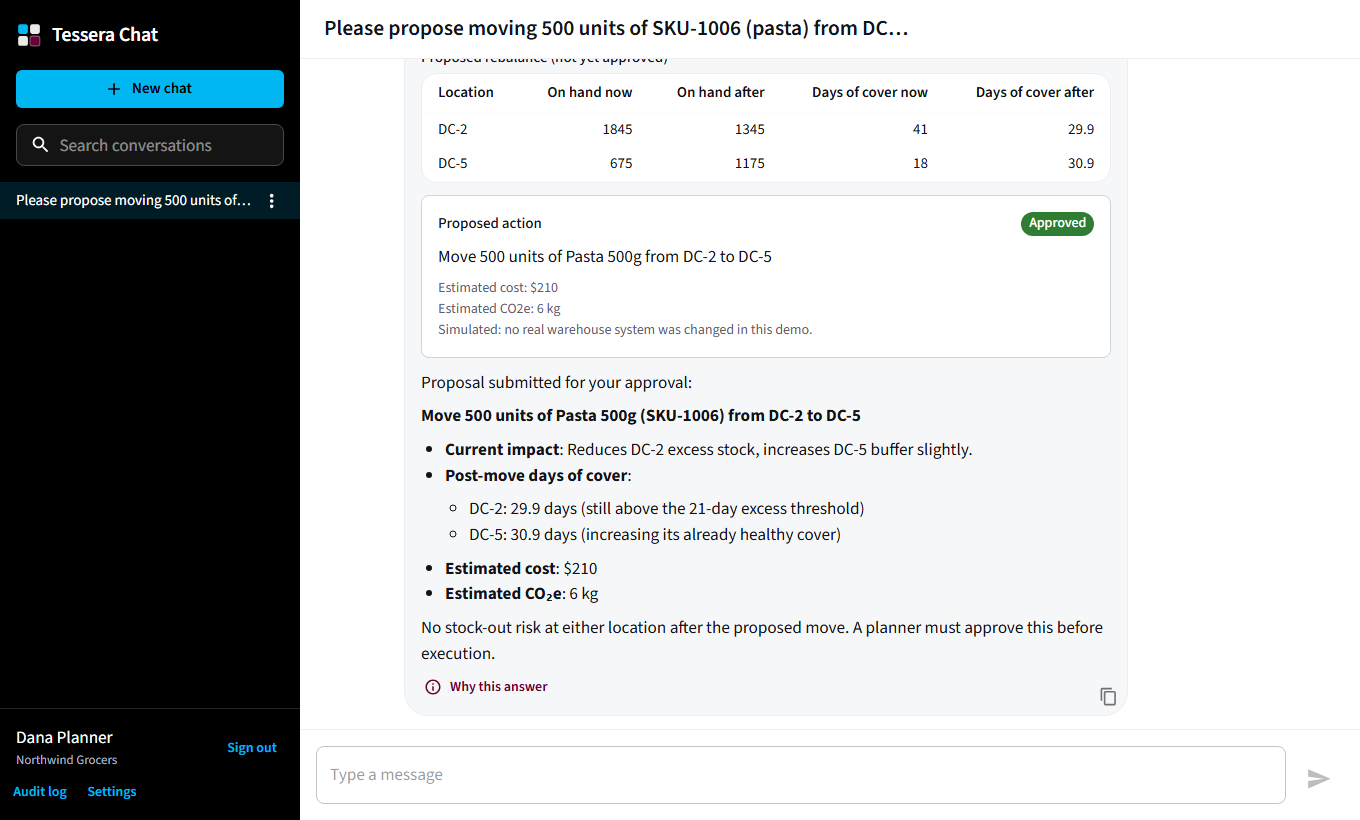
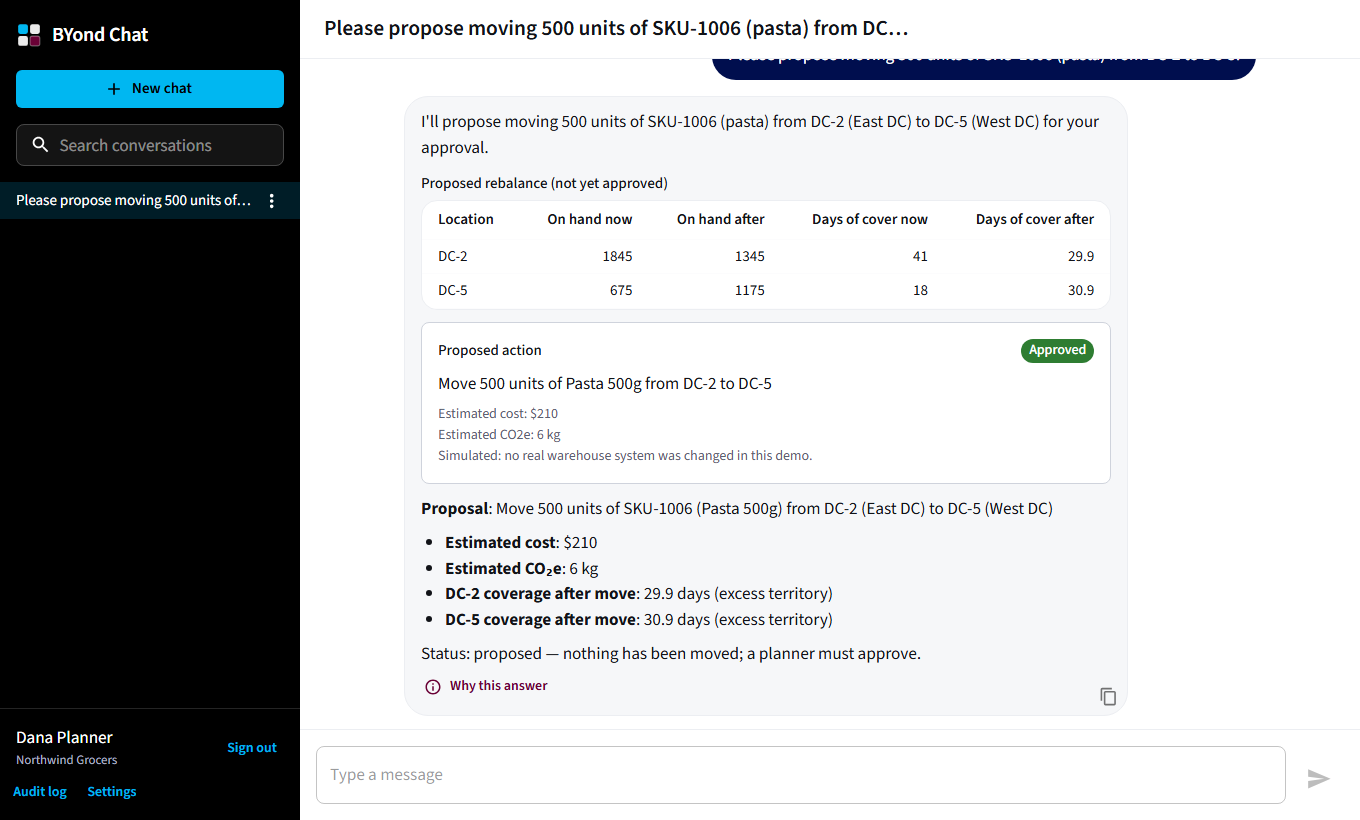
docs: BYond Chat name, retaken screenshots

diff --git a/docs/ARCHITECTURE.md b/docs/ARCHITECTURE.md
@@ -1,6 +1,6 @@
 # Architecture and design decisions
 
-This document explains how Tessera Chat is built and why. The README covers setup; `docs/PLAN.md` is the original
+This document explains how BYond Chat is built and why. The README covers setup; `docs/PLAN.md` is the original
 planning document (kept for history: where it disagrees with this file, this file is right).
 
 ## 1. What the system is

diff --git a/README.md b/README.md
@@ -1,4 +1,4 @@
-# Tessera Chat
+# BYond Chat
 
 A full stack, ChatGPT-style conversational app with a **Supply Chain Copilot** layer: streaming answers from a real
 language model, rich replies (Markdown, code, tables, charts, choice buttons), and tools that answer planners' questions
